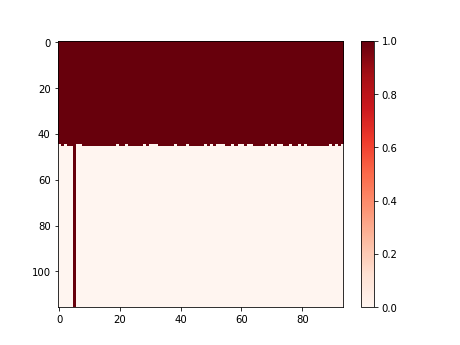
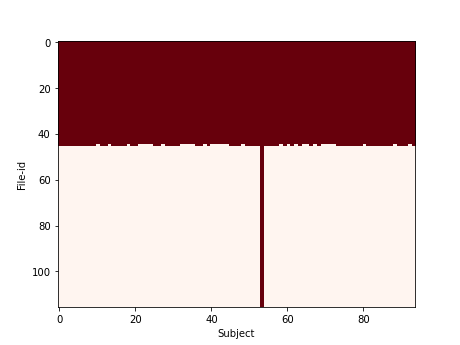
Updated training sample figures; removed the legend

diff --git a/paper.tex b/paper.tex
@@ -263,22 +263,22 @@ will then predict the reproducibility of the remaining files.
                   \label{fig:Rows-Sample-Training-set}
         \end{subfigure}
         \begin{subfigure}[b]{0.45\columnwidth}
-                 \includegraphics[width=\columnwidth]{figures/5vs7_random-real_04_training}
+                 \includegraphics[width=\columnwidth]{figures/5vs7_RS_04_training}
                 \caption{Random Subjects (RS)}
                   \label{fig:Uniform-S-Sample-Training-set}
         \end{subfigure}
         \begin{subfigure}[b]{0.45\columnwidth}
-                  \includegraphics[width=\columnwidth]{figures/5vs7_diagonal_04_training}
+                  \includegraphics[width=\columnwidth]{figures/5vs7_RFNU_04_training}
                   \caption{RFNU}
                   \label{fig:Diagonal-Sample-Training-set}
         \end{subfigure}
         \begin{subfigure}[b]{0.45\columnwidth}
-                  \includegraphics[width=\columnwidth]{figures/5vs7_random-triangular-largest_04_training}
+                  \includegraphics[width=\columnwidth]{figures/5vs7_RFNT-L_04_training}
                   \caption{RFNTL}
                   \label{fig:triangular-L-Sample-Training-set}
         \end{subfigure}
         \begin{subfigure}[b]{0.45\columnwidth}
-                  \includegraphics[width=\columnwidth]{figures/5vs7_random-triangular-smallest_04_training}
+                  \includegraphics[width=\columnwidth]{figures/5vs7_RFNT-S_04_training}
                   \caption{RFNTS}
                   \label{fig:triangular-S-Sample-Training-set}
         \end{subfigure}
